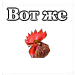
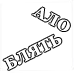
option autoloader; randomize option;

Changed region(s): [[0.0267, 0.3733, 0.8533, 0.96], [0.08, 0.08, 0.96, 0.4267]]

diff --git a/paladzingo.html b/paladzingo.html
@@ -7,51 +7,10 @@
 
     <body>
         <div  class="header"><img src="images/header.png"></div>
-        <div class="options">
-            <img src="images/1.png" class="game_option" data-x="0" data-y="0" data-action="option">
-            <img src="images/2.png" class="game_option" data-x="0" data-y="1" data-action="option">
-            <img src="images/3.png" class="game_option" data-x="0" data-y="2" data-action="option">
-            <img src="images/4.png" class="game_option" data-x="0" data-y="3" data-action="option">
-            <img src="images/5.png" class="game_option" data-x="0" data-y="4" data-action="option">
-            <img src="images/6.png" class="game_option" data-x="1" data-y="0" data-action="option">
-            <img src="images/7.png" class="game_option" data-x="1" data-y="1" data-action="option">
-            <img src="images/8.png" class="game_option" data-x="1" data-y="2" data-action="option">
-            <img src="images/9.png" class="game_option" data-x="1" data-y="3" data-action="option">
-            <img src="images/10.png" class="game_option" data-x="1" data-y="4" data-action="option">
-            <img src="images/11.png" class="game_option" data-x="2" data-y="0" data-action="option">
-            <img src="images/12.png" class="game_option" data-x="2" data-y="1" data-action="option">
-            <img src="images/13.png" class="game_option" data-x="2" data-y="2" data-action="option">
-            <img src="images/14.png" class="game_option" data-x="2" data-y="3" data-action="option">
-            <img src="images/15.png" class="game_option" data-x="2" data-y="4" data-action="option">
-            <img src="images/16.png" class="game_option" data-x="3" data-y="0" data-action="option">
-            <img src="images/17.png" class="game_option" data-x="3" data-y="1" data-action="option">
-            <img src="images/18.png" class="game_option" data-x="3" data-y="2" data-action="option">
-            <img src="images/19.png" class="game_option" data-x="3" data-y="3" data-action="option">
-            <img src="images/20.png" class="game_option" data-x="3" data-y="4" data-action="option">
-            <img src="images/21.png" class="game_option" data-x="4" data-y="0" data-action="option">
-            <img src="images/22.png" class="game_option" data-x="4" data-y="1" data-action="option">
-            <img src="images/23.png" class="game_option" data-x="4" data-y="2" data-action="option">
-            <img src="images/24.png" class="game_option" data-x="4" data-y="3" data-action="option">
-            <img src="images/25.png" class="game_option" data-x="4" data-y="4" data-action="option">
+        <div class="options"></div>
 
-
-            
-
-        </div>
-            
-        
         <script id="jadegame">
-//            div.header
-//                img(src='images/header.png')
-//            table.game
-//                let imageNumber = 1;
-//                for(let i = 0; i =< 5; i++){
-//                    tr
-//                        for(let k = 0; k =< 5; k++){
-//                            td.game_option
-//                                img(src='images/' + imageNumber++ +'.png')
-//                        }
-//                }
+
         </script>
         <script type="text/javascript" src="game.js"></script>
 

diff --git a/game.js b/game.js
@@ -9,12 +9,42 @@ let choises = document.getElementsByClassName('game_option');
 
 elem.addEventListener('click', onClick);
 
-var div = document.createElement("div");
-var bingoImage = document.createElement('img');
+let div = document.createElement("div");
+let bingoImage = document.createElement('img');
+
 bingoImage.src = "nichego.png";
-div.id = 'nichego';
 bingoImage.dataset.action = "bingo";
+
+div.id = 'nichego';
 div.appendChild(bingoImage);
+
+let optLod = [];
+for(let i = 0; i < 25; i++){optLod.push(i)};
+
+
+function compareRandom(a, b) {
+    return Math.random() - 0.5;
+}
+
+optLod.sort(compareRandom);
+
+function optionLoader(){
+        let image = 0;
+        for(let i = 0; i < 5; i++) {
+            for(let j = 0; j < 5; j++) {
+                let img = document.createElement("img");
+                img.src = "images/" + optLod[image] + ".png";
+                img.classList.add("game_option");
+                img.dataset.x = i;
+                img.dataset.y = j;
+                img.dataset.action = "option";
+                elem.appendChild(img);
+                image++
+            }
+        }
+}
+
+optionLoader();
 
 function onClick(event) {
     event.preventDefault();
@@ -43,6 +73,7 @@ function bingoCheck(target) {
     let x = target.dataset.x;
     let y = target.dataset.y;
     let arr = matrixGame();
+
     function checkX() {
         let num = 0;
         for(let i = 0; i < 5; i++){
@@ -54,28 +85,53 @@ function bingoCheck(target) {
             return true;
         }
     }
-    function checkY(){
+
+    function checkY() {
         let num = 0;
-        for(let i = 0; i < 5; i++){
-            if(classCheck(arr[i][y].classList)){
+        for (let i = 0; i < 5; i++) {
+            if (classCheck(arr[i][y].classList)) {
                 num++;
-                }
             }
-        if(num == 5){
+        }
+        if (num == 5) {
             return true;
         }
-
     }
-    return (checkX() || checkY());
 
+    function checkL() {
+        let num = 0;
+        for(let i = 0; i < 5; i++){
+            if(classCheck(arr[i][i].classList)){
+                num++;
+            }
+        }
+        if (num == 5) {
+            return true;
+        }
+    }
+
+    function checkR() {
+        let num = 0;
+        let k = 4;
+        for(let i = 0; i < 5; i++){
+            if(classCheck(arr[i][k--].classList)){
+                num++;
+            }
+        }
+        if (num == 5) {
+            return true;
+        }
+    }
+
+    return (checkX() || checkY()/* || checkL() || checkR*/);
 }
 
-    function matrixGame(){
-    var arr = [];
-    var num = 0;
-    for(var i=0; i<5; i++){
+function matrixGame(){
+    let arr = [];
+    let num = 0;
+    for(let i=0; i<5; i++){
         arr[i] = [];
-        for(var j=0; j<5; j++){
+        for(let j=0; j<5; j++){
             arr[i][j] = choises[num];
             num++;
         }
@@ -83,7 +139,7 @@ function bingoCheck(target) {
     return arr;
 }
 
-    function classCheck(arr){
+function classCheck(arr){
     for(let i = 0; i < arr.length; i++){
        if(arr[i] == "chosen"){
            return true;
@@ -91,6 +147,3 @@ function bingoCheck(target) {
     }
  }
 
-    function bingo(){
-
-    }
